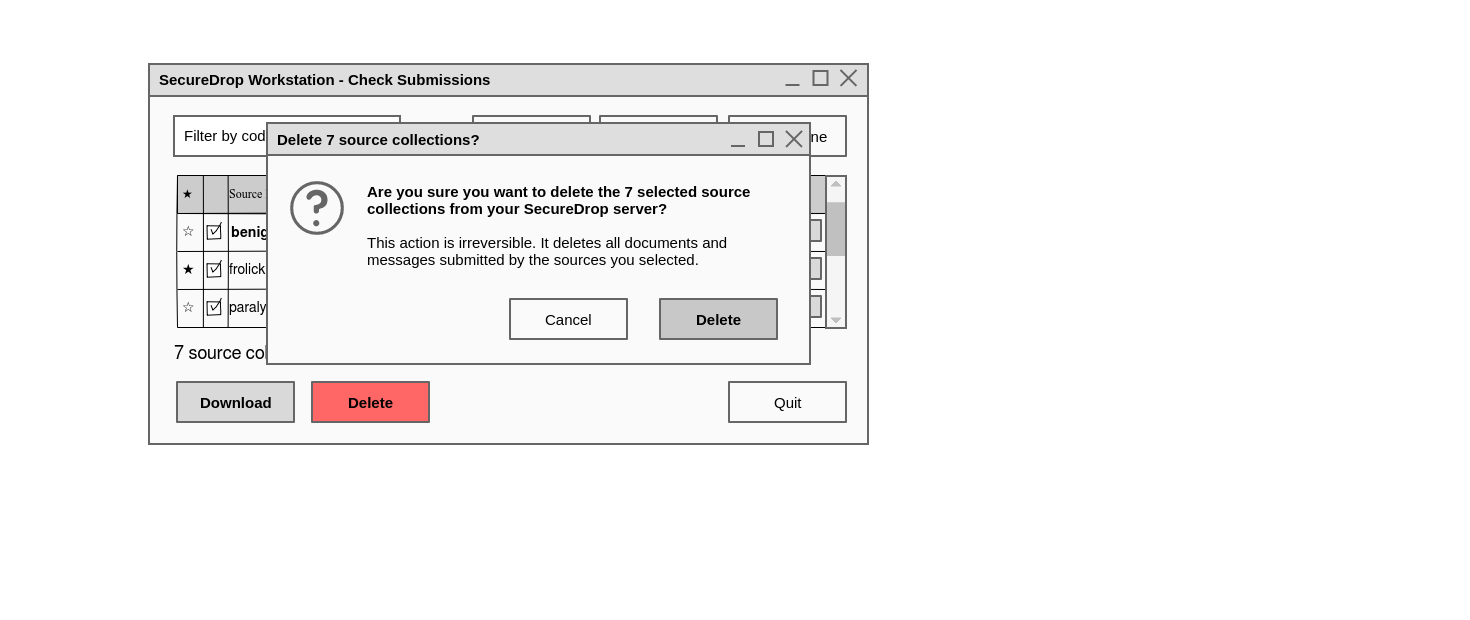
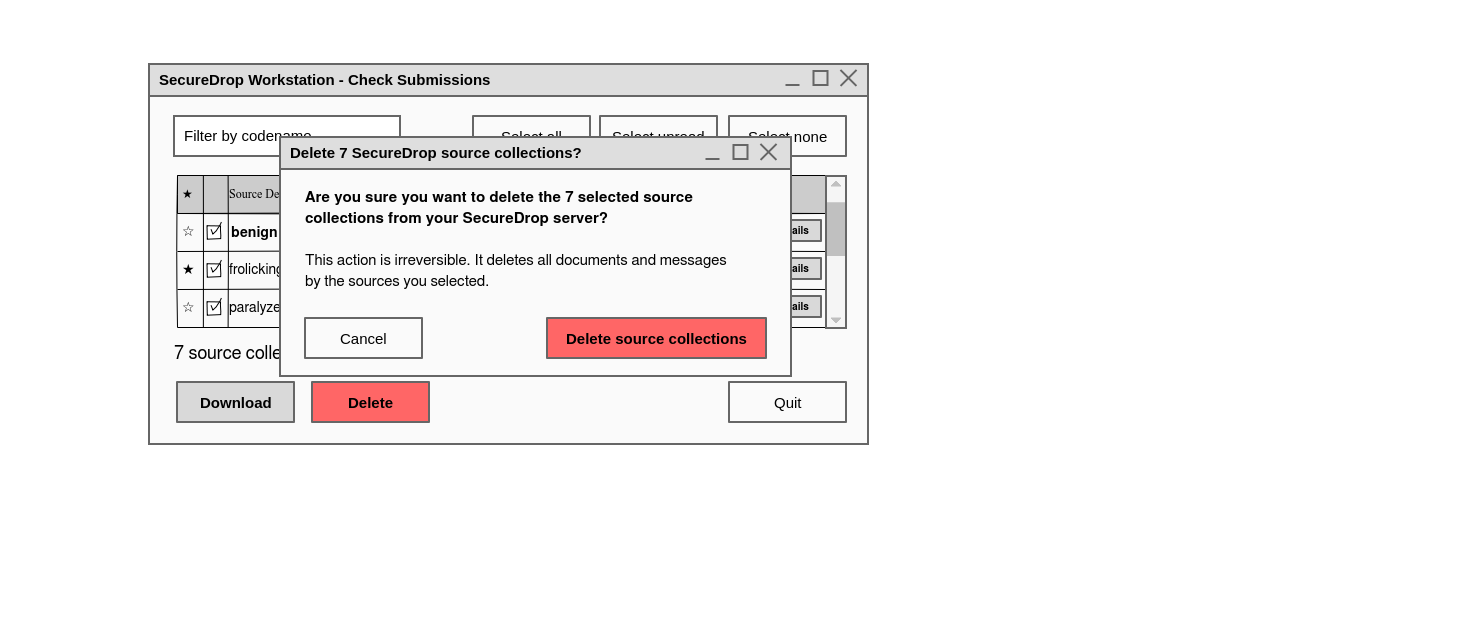
Finish up deletion flow

Changed region(s): [[0.1837, 0.1839, 0.551, 0.6129]]

diff --git a/workstation/index.html b/workstation/index.html
@@ -1,2 +1,2 @@
 <html xmlns="http://www.w3.org/1999/xhtml" xmlns:p="http://www.evolus.vn/Namespace/Pencil" xmlns:html="http://www.w3.org/1999/xhtml"><head><meta http-equiv="Content-Type" content="text/html; charset=UTF-8" />
-<title>workstation</title><link rel="stylesheet" href="Resources/SampleStyle.css" /></head><body><h1 id="documentTitle">workstation</h1><p id="documentMetadata">Exported at: Mon Jul 02 2018 16:48:01 GMT-0700 (PDT)</p><div class="Page" id="login_page"><h2>Login</h2><div class="ImageContainer"><img src="pages/login.png" width="1470" height="620" usemap="#map_login" /></div><map name="map_login"><area shape="rect" coords="254,312,371,352" href="#submissions_none_selected_page" title="Go to page 'Submissions - None Selected'" /></map></div><div class="Page" id="submissions_none_selected_page"><h2>Submissions - None Selected</h2><div class="ImageContainer"><img src="pages/submissions_none_selected.png" width="1470" height="620" usemap="#map_submissions_none_selected" /></div><map name="map_submissions_none_selected"><area shape="rect" coords="473,116,590,156" href="#submissions_all_selected_page" title="Go to page 'Submissions - All Selected'" /><area shape="rect" coords="312,382,429,422" href="#none_selected_message_page" title="Go to page 'None selected message'" /><area shape="rect" coords="177,382,294,422" href="#none_selected_message_page" title="Go to page 'None selected message'" /></map></div><div class="Page" id="none_selected_message_page"><h2>None selected message</h2><div class="ImageContainer"><img src="pages/none_selected_message.png" width="1470" height="620" usemap="#map_none_selected_message" /></div><map name="map_none_selected_message"><area shape="rect" coords="473,116,590,156" href="#submissions_all_selected_page" title="Go to page 'Submissions - All Selected'" /><area shape="rect" coords="312,382,429,422" href="#none_selected_message_page" title="Go to page 'None selected message'" /><area shape="rect" coords="177,382,294,422" href="#none_selected_message_page" title="Go to page 'None selected message'" /></map></div><div class="Page" id="submissions_all_selected_page"><h2>Submissions - All Selected</h2><div class="ImageContainer"><img src="pages/submissions_all_selected.png" width="1470" height="620" usemap="#map_submissions_all_selected" /></div><map name="map_submissions_all_selected"><area shape="rect" coords="729,116,846,156" href="#submissions_none_selected_page" title="Go to page 'Submissions - None Selected'" /><area shape="rect" coords="312,382,429,422" href="#delete_page" title="Go to page 'Delete?'" /><area shape="rect" coords="177,382,294,422" href="#download_page" title="Go to page 'Download'" /></map></div><div class="Page" id="download_page"><h2>Download</h2><div class="ImageContainer"><img src="pages/download.png" width="1470" height="620" usemap="#map_download" /></div><map name="map_download"><area shape="rect" coords="617,468,870,491" href="#downloaded_page" title="Go to page 'Downloaded'" /><area shape="rect" coords="625,244,742,284" href="#submissions_all_selected_page" title="Go to page 'Submissions - All Selected'" /><area shape="rect" coords="729,116,846,156" href="#submissions_none_selected_page" title="Go to page 'Submissions - None Selected'" /><area shape="rect" coords="312,382,429,422" href="#delete_page" title="Go to page 'Delete?'" /><area shape="rect" coords="177,382,294,422" href="#download_page" title="Go to page 'Download'" /></map></div><div class="Page" id="downloaded_page"><h2>Downloaded</h2><div class="ImageContainer"><img src="pages/downloaded.png" width="1470" height="620" usemap="#map_downloaded" /></div><map name="map_downloaded"><area shape="rect" coords="239,136,782,388" href="#submissions_all_selected_page" title="Go to page 'Submissions - All Selected'" /><area shape="rect" coords="729,116,846,156" href="#submissions_none_selected_page" title="Go to page 'Submissions - None Selected'" /><area shape="rect" coords="312,382,429,422" href="#delete_page" title="Go to page 'Delete?'" /><area shape="rect" coords="177,382,294,422" href="#download_page" title="Go to page 'Download'" /></map></div><div class="Page" id="delete_page"><h2>Delete?</h2><div class="ImageContainer"><img src="pages/delete.png" width="1470" height="620" usemap="#map_delete" /></div><map name="map_delete"><area shape="rect" coords="729,116,846,156" href="#submissions_none_selected_page" title="Go to page 'Submissions - None Selected'" /><area shape="rect" coords="312,382,429,422" href="#delete_page" title="Go to page 'Delete?'" /><area shape="rect" coords="177,382,294,422" href="#download_page" title="Go to page 'Download'" /></map></div></body></html>
+<title>workstation</title><link rel="stylesheet" href="Resources/SampleStyle.css" /></head><body><h1 id="documentTitle">workstation</h1><p id="documentMetadata">Exported at: Mon Jul 02 2018 17:32:50 GMT-0700 (PDT)</p><div class="Page" id="login_page"><h2>Login</h2><div class="ImageContainer"><img src="pages/login.png" width="1470" height="620" usemap="#map_login" /></div><map name="map_login"><area shape="rect" coords="254,312,371,352" href="#submissions_none_selected_page" title="Go to page 'Submissions - None Selected'" /></map></div><div class="Page" id="submissions_none_selected_page"><h2>Submissions - None Selected</h2><div class="ImageContainer"><img src="pages/submissions_none_selected.png" width="1470" height="620" usemap="#map_submissions_none_selected" /></div><map name="map_submissions_none_selected"><area shape="rect" coords="473,116,590,156" href="#submissions_all_selected_page" title="Go to page 'Submissions - All Selected'" /><area shape="rect" coords="312,382,429,422" href="#none_selected_message_page" title="Go to page 'None selected message'" /><area shape="rect" coords="177,382,294,422" href="#none_selected_message_page" title="Go to page 'None selected message'" /></map></div><div class="Page" id="none_selected_message_page"><h2>None selected message</h2><div class="ImageContainer"><img src="pages/none_selected_message.png" width="1470" height="620" usemap="#map_none_selected_message" /></div><map name="map_none_selected_message"><area shape="rect" coords="473,116,590,156" href="#submissions_all_selected_page" title="Go to page 'Submissions - All Selected'" /><area shape="rect" coords="312,382,429,422" href="#none_selected_message_page" title="Go to page 'None selected message'" /><area shape="rect" coords="177,382,294,422" href="#none_selected_message_page" title="Go to page 'None selected message'" /></map></div><div class="Page" id="submissions_all_selected_page"><h2>Submissions - All Selected</h2><div class="ImageContainer"><img src="pages/submissions_all_selected.png" width="1470" height="620" usemap="#map_submissions_all_selected" /></div><map name="map_submissions_all_selected"><area shape="rect" coords="729,116,846,156" href="#submissions_none_selected_page" title="Go to page 'Submissions - None Selected'" /><area shape="rect" coords="312,382,429,422" href="#delete_page" title="Go to page 'Delete?'" /><area shape="rect" coords="177,382,294,422" href="#download_page" title="Go to page 'Download'" /></map></div><div class="Page" id="download_page"><h2>Download</h2><div class="ImageContainer"><img src="pages/download.png" width="1470" height="620" usemap="#map_download" /></div><map name="map_download"><area shape="rect" coords="617,468,870,491" href="#downloaded_page" title="Go to page 'Downloaded'" /><area shape="rect" coords="625,262,742,302" href="#submissions_all_selected_page" title="Go to page 'Submissions - All Selected'" /><area shape="rect" coords="729,116,846,156" href="#submissions_none_selected_page" title="Go to page 'Submissions - None Selected'" /><area shape="rect" coords="312,382,429,422" href="#delete_page" title="Go to page 'Delete?'" /><area shape="rect" coords="177,382,294,422" href="#download_page" title="Go to page 'Download'" /></map></div><div class="Page" id="downloaded_page"><h2>Downloaded</h2><div class="ImageContainer"><img src="pages/downloaded.png" width="1470" height="620" usemap="#map_downloaded" /></div><map name="map_downloaded"><area shape="rect" coords="468,336,585,376" href="#submissions_all_selected_page" title="Go to page 'Submissions - All Selected'" /><area shape="rect" coords="729,116,846,156" href="#submissions_none_selected_page" title="Go to page 'Submissions - None Selected'" /><area shape="rect" coords="312,382,429,422" href="#delete_page" title="Go to page 'Delete?'" /><area shape="rect" coords="177,382,294,422" href="#download_page" title="Go to page 'Download'" /></map></div><div class="Page" id="delete_page"><h2>Delete?</h2><div class="ImageContainer"><img src="pages/delete.png" width="1470" height="620" usemap="#map_delete" /></div><map name="map_delete"><area shape="rect" coords="305,318,422,358" href="#submissions_all_selected_page" title="Go to page 'Submissions - All Selected'" /><area shape="rect" coords="547,318,766,358" href="#deleted_page" title="Go to page 'Deleted!'" /><area shape="rect" coords="729,116,846,156" href="#submissions_none_selected_page" title="Go to page 'Submissions - None Selected'" /><area shape="rect" coords="312,382,429,422" href="#delete_page" title="Go to page 'Delete?'" /><area shape="rect" coords="177,382,294,422" href="#download_page" title="Go to page 'Download'" /></map></div><div class="Page" id="deleted_page"><h2>Deleted!</h2><div class="ImageContainer"><img src="pages/deleted.png" width="1470" height="620" usemap="#map_deleted" /></div><map name="map_deleted"><area shape="rect" coords="650,239,766,279" href="#no_submissions_page" title="Go to page 'No submissions'" /><area shape="rect" coords="729,116,846,156" href="#submissions_none_selected_page" title="Go to page 'Submissions - None Selected'" /><area shape="rect" coords="312,382,429,422" href="#delete_page" title="Go to page 'Delete?'" /><area shape="rect" coords="177,382,294,422" href="#download_page" title="Go to page 'Download'" /></map></div><div class="Page" id="no_submissions_page"><h2>No submissions</h2><div class="ImageContainer"><img src="pages/no_submissions.png" width="1470" height="620" usemap="#map_no_submissions" /></div><map name="map_no_submissions"></map></div></body></html>
